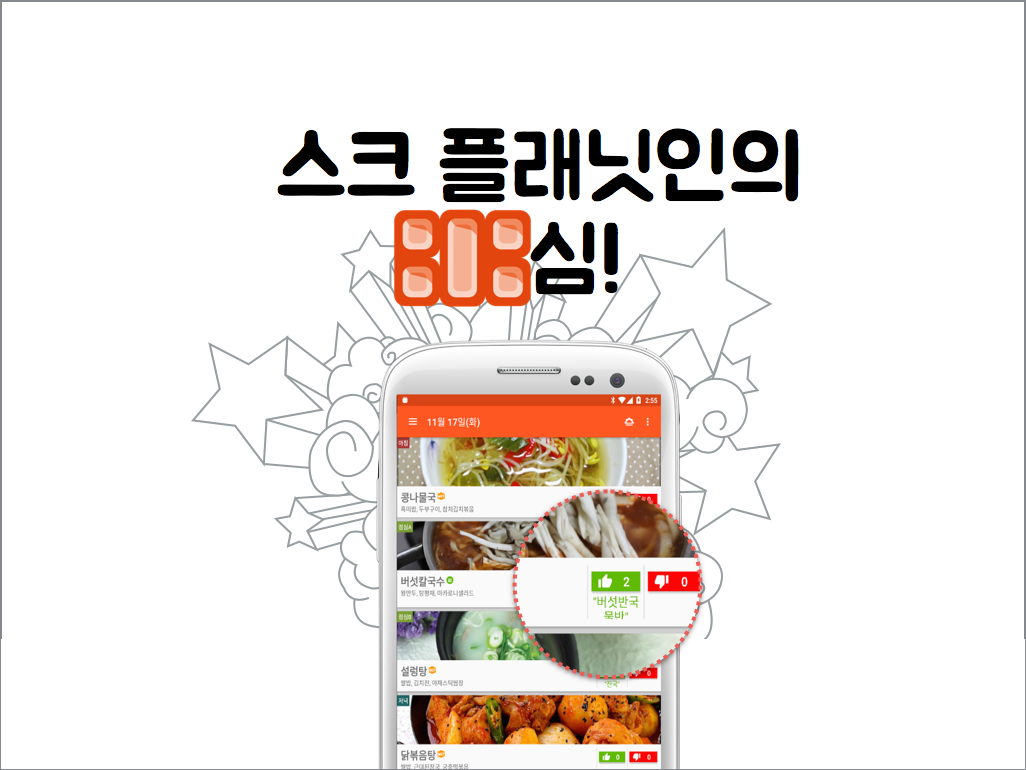
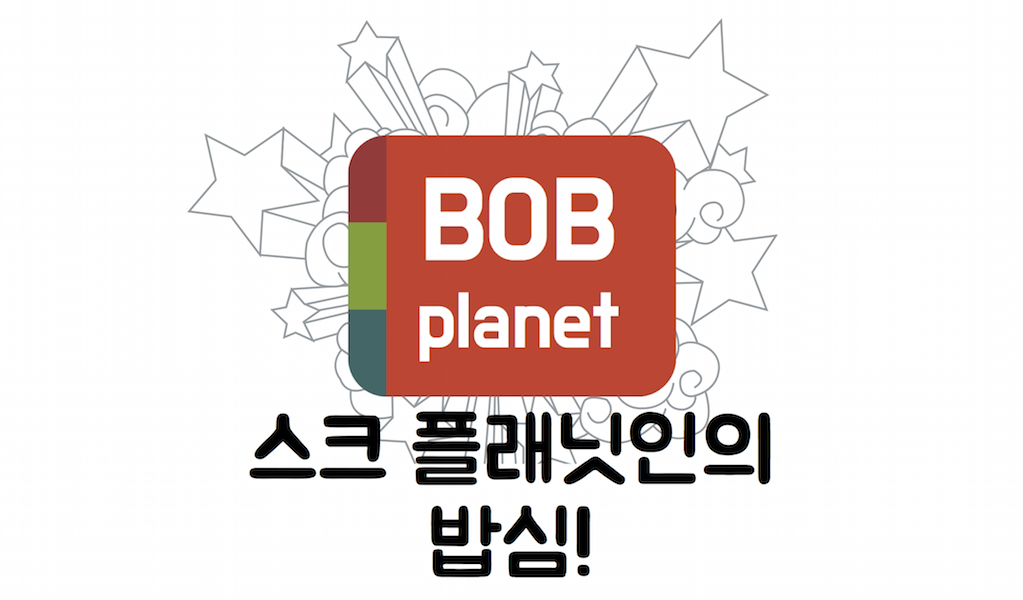
이미지 및 아이콘 재 수정

diff --git a/_includes/head.html b/_includes/head.html
@@ -10,13 +10,13 @@
 		<meta property="og:type"          	content="website" />
 		<meta property="og:image" 			content="http://bobplanet.kr/assets/images/step4_facebook.png" />
 		<meta property="og:description"   	content="플라랩 멤버들이 만든 이상한 앱! BOBplanet이 매일 The Planet 식당메뉴를 알려드립니다. 매일 점심/저녁 메뉴를 미리 푸쉬받아보세요." />
-	    <meta name="keywords" 				content="식단, 플라랩, P밥, 피크닉, 밥, SK플래">
+	    <meta name="keywords" 				content="식단, 플라랩, P밥, 피크닉, 밥, SK플래닛">
 
 
 	<!-- Favicons-->
-	<link rel="shortcut icon" href=" /assets/images/favicon/bob_v1_color_ns.png" type="image/png" />
-	<link rel="apple-touch-icon-precomposed" href=" /assets/images/favicon/bob_v1_color_ns.png"  type="image/png" />
-	<link rel="icon" href=" /assets/images/favicon/bob_v1_color_ns_32.png" sizes="32x32">
+	<link rel="shortcut icon" href=" /assets/images/favicon/apple-touch-icon-152x152.png" type="image/png" />
+	<link rel="apple-touch-icon-precomposed" href=" /assets/images/favicon/apple-touch-icon-152x152.png"  type="image/png" />
+	<link rel="icon" href=" /assets/images/favicon/favicon-32.png" sizes="32x32">
 
 
 	<link rel="stylesheet" href="https://fonts.googleapis.com/icon?family=Material+Icons">

diff --git a/assets/css/style.css b/assets/css/style.css
@@ -59,6 +59,10 @@ footer.page-footer {
   margin: 0;
 }
 
+.download_badge {
+    max-width: 180px !important;
+}
+
 .github-commit {
   padding: 14px 0;
   height: 64px;
@@ -136,7 +140,7 @@ footer.page-footer {
 
 
 article {
-    padding: 0 30px;
+    /*padding: 0 30px;*/
     /*max-width: 680px;*/
     text-align: left
 }
@@ -266,16 +270,20 @@ article .text h1, article .text h2, article .text h3, article .text h4, article 
     text-align: left
 }
 article .text h1 {
-    font-size: 30px
+    color: #263238;
+    font-size: 30px;
 }
 article .text h2 {
-    font-size: 28px
+    color: #455a64;
+    font-size: 28px;
 }
 article .text h3 {
-    font-size: 26px
+    color: #607d8b;
+    font-size: 26px;
 }
 article .text h4 {
-    font-size: 24px
+    color: #90a4ae;
+    font-size: 24px;
 }
 article .text h5 {
     font-size: 22px
@@ -333,10 +341,16 @@ article .text ul li, article .text ol li, article .text dl li {
     line-height: 1.5em
 }
 article .text ul ul {
+    list-style-type: square;
+}
+article .text ul li {
+    list-style-type: disc
+}
+article .text ul ul li {
     list-style-type: square
 }
-article .text li {
-    list-style-type: circle;
+article .text ul ul ul li {
+    list-style-type: circle
 }
 article .text ol {
     list-style-type: decimal

diff --git a/index.html b/index.html
@@ -6,7 +6,7 @@ layout: default
   <div id="mainBanner" class="section no-pad-bot ">
     <div class="container">
       <div class="row center">
-        <img src="assets/images/favicon/bob_v1_bw_ns.png" width="128" alt="">
+        <img src="assets/images/favicon/apple-touch-icon-152x152.png" width="128" alt="">
         <h2 class="hide-on-med-and-down header center deep-orange-text text-lighten-2">I. BOB. U</h2>
       </div>
       <div class="row center">
@@ -220,7 +220,7 @@ layout: default
     <div class="container classTue">
       <div id="banner03" class="row center">
         <h4 class="header light white-text">
-        나머지 인생을 <span class="yellow-text">설탕물 꼬치우동</span>을먹으면서 보내고 싶습니까, 아니면 식단 매뉴를 바꿔놓을 기회를 갖고 싶습니까?.
+        나머지 인생을 <span class="yellow-text">설탕물 꼬치우동</span>을먹으면서 보내고 싶습니까, 아니면 식단 메뉴를 바꿔놓을 기회를 갖고 싶습니까?.
          </h4>
         <a href="https://github.com/bobplanet" target="_blank" class="waves-effect waves-light btn-large deep-orange lighten-3"><i class="fa fa-github right "></i>깃허브 참여하기</a>
       </div>

diff --git a/_includes/footer.html b/_includes/footer.html
@@ -13,7 +13,7 @@
 			</div>
 			<div id="video_list" class="col l3 s12">
 				<h5 class="white-text">밥플래닛 다운로드</h5>
-				<a href="https://play.google.com/store/apps/details?id=kr.bobplanet.android&utm_source=global_co&utm_medium=prtnr&utm_content=Mar2515&utm_campaign=PartBadge&pcampaignid=MKT-AC-global-none-all-co-pr-py-PartBadges-Oct1515-1"><img class="responsive-img" alt="Get it on Google Play" src="https://play.google.com/intl/en_us/badges/images/apps/en-play-badge.png" /></a>
+				<a href="https://play.google.com/store/apps/details?id=kr.bobplanet.android&utm_source=global_co&utm_medium=prtnr&utm_content=Mar2515&utm_campaign=PartBadge&pcampaignid=MKT-AC-global-none-all-co-pr-py-PartBadges-Oct1515-1"><img class="download_badge" alt="Get it on Google Play" src="https://play.google.com/intl/en_us/badges/images/apps/en-play-badge.png"/></a>
 
 			</div>
 			<div class="col l3 s12">

diff --git a/_includes/header.html b/_includes/header.html
@@ -3,7 +3,7 @@
 	<div class="container">
 		<div class="nav-wrapper">
 			<div id="logo-container">
-				<a href="#"><img width="40" class="icon hide-on-med-and-down" src="/assets/images/favicon/bob_v1_bw_ns.png"></a>
+				<a href="#"><img width="40" class="icon hide-on-med-and-down" src="/assets/images/favicon/apple-touch-icon-152x152.png"></a>
 				<a href="/" class="brand-logo">밥플래닛</a>
 				<ul class="right hide-on-med-and-down category" >
 					<li>
